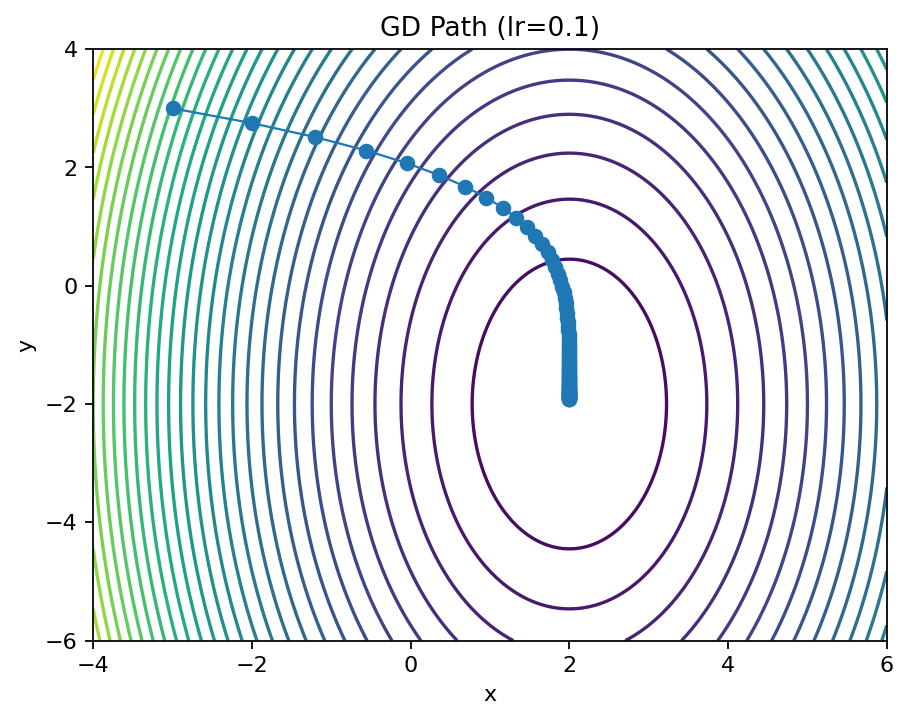
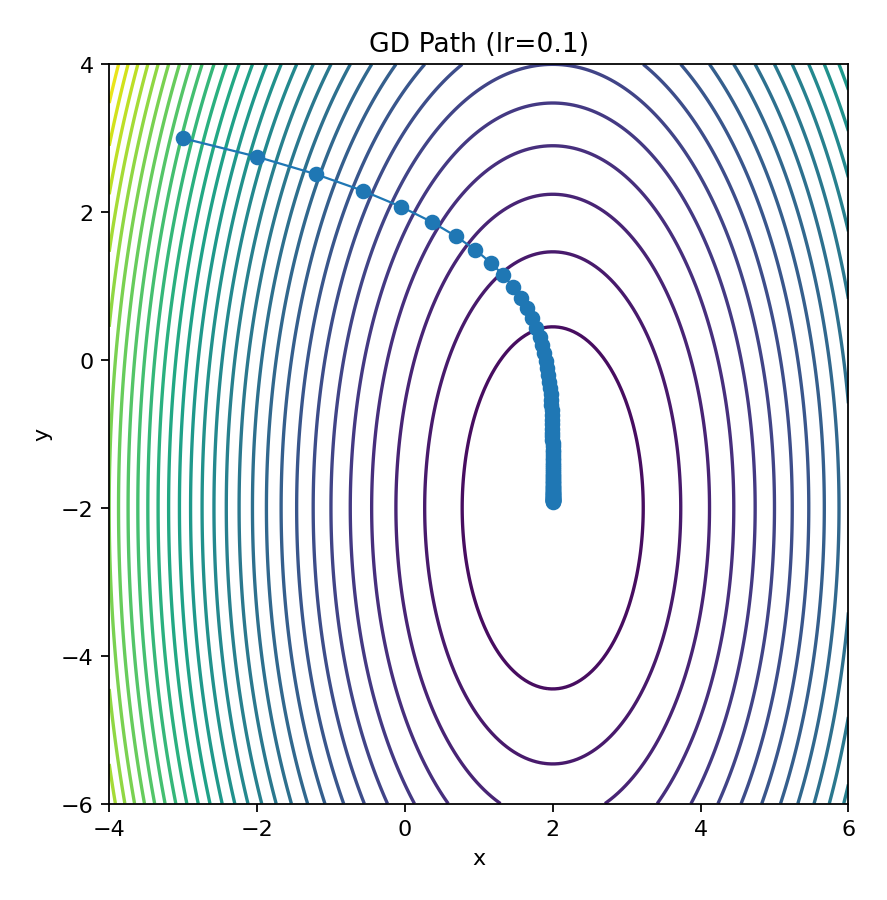
vis: square canvases + equal aspect + clearer logistic surface
Standardized 2D plots to equal aspect; improved logistic surface with percentile normalization + isolines; added padding to 3D surface. Regenerated figures.

diff --git a/examples/logreg_surface.py b/examples/logreg_surface.py
@@ -1,5 +1,6 @@
 import numpy as np
 import matplotlib.pyplot as plt
+from matplotlib import colors
 from mfd4.gradient_descent import logistic_loss, gd
 
 # Tiny 2D dataset
@@ -12,24 +13,18 @@ X = np.array([
 ])
 y = np.array([0, 0, 0, 1, 1])
 
-# Build loss/grad on (w1, w2, b)
 f, grad = logistic_loss(X, y, lam=0.0)
 
 def newton_opt_b(w1: float, w2: float, b0: float = 0.0, iters: int = 25):
-    """
-    Optimize scalar bias b for fixed w=(w1,w2) using 1-D Newton steps:
-      g(b)  = d/d b NLL = sum(sigmoid(Xw + b) - y)
-      g'(b) = sum(p*(1-p))
-    """
+    """Optimize scalar bias b for fixed w=(w1,w2) using 1-D Newton steps."""
     w = np.array([w1, w2], dtype=float)
     b = float(b0)
     for _ in range(iters):
         z = X @ w + b
         p = 1.0 / (1.0 + np.exp(-z))
-        g  = np.sum(p - y)                    # first derivative wrt b
-        g2 = np.sum(p * (1.0 - p)) + 1e-12    # second derivative wrt b (add epsilon)
+        g  = float(np.sum(p - y))                       # dNLL/db
+        g2 = float(np.sum(p * (1.0 - p)) + 1e-12)       # d^2NLL/db^2
         b -= g / g2
-        # keep b in a safe numeric range
         b = float(np.clip(b, -20.0, 20.0))
     return b
 
@@ -39,44 +34,49 @@ w2s = np.linspace(-6, 6, 160)
 W1, W2 = np.meshgrid(w1s, w2s)
 ZZ = np.empty_like(W1, dtype=float)
 
-# Compute loss surface with b optimized via Newton
+# Loss surface with b optimized via Newton
 for i in range(W1.shape[0]):
     for j in range(W1.shape[1]):
         w1 = float(W1[i, j]); w2 = float(W2[i, j])
         b_star = newton_opt_b(w1, w2, b0=0.0, iters=25)
         ZZ[i, j] = f(np.array([w1, w2, b_star], dtype=float))
 
-# Sanity: replace any NaNs/Infs; print range
+# Replace NaNs/Infs and compute contrast range
 ZZ = np.nan_to_num(ZZ, posinf=np.finfo(float).max/10, neginf=0.0)
 zmin, zmax = float(np.min(ZZ)), float(np.max(ZZ))
-print(f"logreg surface range: min={zmin:.4f}, max={zmax:.4f}")
+print(f"logreg surface raw range: min={zmin:.3f}, max={zmax:.3f}")
 
-plt.figure()
-drange = zmax - zmin
-try:
-    if drange <= 1e-8:
-        raise RuntimeError("range too small for contours")
-    cf = plt.contourf(W1, W2, ZZ, levels=30)
-    plt.colorbar(cf, shrink=0.85, label="loss")
-except Exception as _:
-    # Fallback: imshow if contouring is unhappy
-    im = plt.imshow(ZZ, origin="lower", extent=[w1s.min(), w1s.max(), w2s.min(), w2s.max()], aspect="auto")
-    plt.colorbar(im, shrink=0.85, label="loss")
+# Percentile-based contrast so mid-range structure is visible
+vmin = float(np.percentile(ZZ, 5))
+vmax = float(np.percentile(ZZ, 95))
+if vmax - vmin < 1e-6:
+    vmin, vmax = zmin, zmax  # fallback if too narrow
+levels = np.linspace(vmin, vmax, 30)
+norm = colors.Normalize(vmin=vmin, vmax=vmax)
 
+# Filled contours + isolines + colorbar (square + equal aspect)
+plt.figure(figsize=(7, 6))
+cf = plt.contourf(W1, W2, ZZ, levels=levels, norm=norm, cmap="viridis")
+cs = plt.contour(W1, W2, ZZ, levels=levels, colors="k", linewidths=0.4, alpha=0.6)
+plt.clabel(cs, inline=1, fontsize=7, fmt="%.1f")
+plt.colorbar(cf, shrink=0.85, label="loss")
+plt.xlim(w1s.min(), w1s.max()); plt.ylim(w2s.min(), w2s.max())
+plt.gca().set_aspect("equal", adjustable="box")
 plt.title("Logistic Regression Loss Surface (b optimized via Newton)")
 plt.xlabel("w1"); plt.ylabel("w2")
-plt.savefig("figures/logreg_surface.png", dpi=160, bbox_inches="tight")
+plt.savefig("figures/logreg_surface.png", dpi=160, bbox_inches="tight", pad_inches=0.2)
+plt.show()
 
-# Run full GD on (w1, w2, b) and overlay path projected onto (w1, w2)
+# Projected GD path on the same surface
 x0 = np.array([0.0, 0.0, 0.0])
 _, path, _ = gd(f, grad, x0=x0, lr=0.5, steps=200)
-plt.figure()
-# Reuse the computed surface but show as contours for context
-try:
-    cs = plt.contour(W1, W2, ZZ, levels=30)
-except Exception:
-    cs = plt.contour(W1, W2, ZZ, levels=5)
+
+plt.figure(figsize=(7, 6))
+plt.contour(W1, W2, ZZ, levels=levels, norm=norm, colors="k", linewidths=0.6, alpha=0.7)
 plt.plot(path[:,0], path[:,1], marker='o', linewidth=1)
+plt.xlim(w1s.min(), w1s.max()); plt.ylim(w2s.min(), w2s.max())
+plt.gca().set_aspect("equal", adjustable="box")
 plt.title("GD Path on Logistic Loss (projected onto w1-w2)")
 plt.xlabel("w1"); plt.ylabel("w2")
-plt.savefig("figures/logreg_gd_path.png", dpi=160, bbox_inches="tight")
+plt.savefig("figures/logreg_gd_path.png", dpi=160, bbox_inches="tight", pad_inches=0.2)
+plt.show()

diff --git a/examples/rosenbrock_path.py b/examples/rosenbrock_path.py
@@ -2,7 +2,6 @@ import numpy as np
 import matplotlib.pyplot as plt
 from mfd4.gradient_descent import gd, gd_momentum, rosenbrock
 
-# Rosenbrock function (classic narrow valley)
 f, grad = rosenbrock(a=1.0, b=100.0)
 
 # Contour grid (precomputed formula for speed)
@@ -11,23 +10,29 @@ ys = np.linspace(-1, 3, 400)
 XX, YY = np.meshgrid(xs, ys)
 ZZ = (1 - XX)**2 + 100.0*(YY - XX**2)**2
 
-# Vanilla GD (may zig-zag)
+# Vanilla GD (zig-zaggy)
 _, path_gd, _ = gd(f, grad, x0=[-1.2, 1.0], lr=1e-3, steps=3500)
 
 # Momentum GD (faster valley following)
 _, path_mo, _ = gd_momentum(f, grad, x0=[-1.2, 1.0], lr=2e-3, beta=0.9, steps=2500)
 
-# Save figures headlessly
-plt.figure()
+# Save figures (square + equal aspect)
+plt.figure(figsize=(6, 6))
 plt.contour(XX, YY, ZZ, levels=40)
 plt.plot(path_gd[:,0], path_gd[:,1], marker='o', linewidth=1)
+plt.xlim(xs.min(), xs.max()); plt.ylim(ys.min(), ys.max())
+plt.gca().set_aspect("equal", adjustable="box")
 plt.title("Rosenbrock Path — GD lr=0.001")
 plt.xlabel("x"); plt.ylabel("y")
-plt.savefig("figures/rosenbrock_gd_lr0.001.png", dpi=160, bbox_inches="tight")
+plt.savefig("figures/rosenbrock_gd_lr0.001.png", dpi=160, bbox_inches="tight", pad_inches=0.2)
+plt.show()
 
-plt.figure()
+plt.figure(figsize=(6, 6))
 plt.contour(XX, YY, ZZ, levels=40)
 plt.plot(path_mo[:,0], path_mo[:,1], marker='o', linewidth=1)
+plt.xlim(xs.min(), xs.max()); plt.ylim(ys.min(), ys.max())
+plt.gca().set_aspect("equal", adjustable="box")
 plt.title("Rosenbrock Path — Momentum lr=0.002, beta=0.9")
 plt.xlabel("x"); plt.ylabel("y")
-plt.savefig("figures/rosenbrock_momentum_lr0.002beta0.9.png", dpi=160, bbox_inches="tight")
+plt.savefig("figures/rosenbrock_momentum_lr0.002beta0.9.png", dpi=160, bbox_inches="tight", pad_inches=0.2)
+plt.show()

diff --git a/examples/momentum_vs_vanilla.py b/examples/momentum_vs_vanilla.py
@@ -12,15 +12,18 @@ XX, YY = np.meshgrid(xs, ys)
 ZZ = (XX - 2.0)**2 + (0.5*YY + 1.0)**2
 
 # Paths
-_, path_gd, _  = gd(f, grad, x0=[-3, 3], lr=0.25, steps=120)
-_, path_mo, _  = gd_momentum(f, grad, x0=[-3, 3], lr=0.25, beta=0.9, steps=120)
+_, path_gd, _ = gd(f, grad, x0=[-3, 3], lr=0.25, steps=120)
+_, path_mo, _ = gd_momentum(f, grad, x0=[-3, 3], lr=0.25, beta=0.9, steps=120)
 
-# Plot + save (headless-friendly)
-plt.figure()
+# Plot + save (square + equal aspect)
+plt.figure(figsize=(6, 6))
 plt.contour(XX, YY, ZZ, levels=30)
 plt.plot(path_gd[:,0], path_gd[:,1], marker='o', linewidth=1, label="GD")
 plt.plot(path_mo[:,0], path_mo[:,1], marker='o', linewidth=1, label="Momentum")
+plt.xlim(xs.min(), xs.max()); plt.ylim(ys.min(), ys.max())
+plt.gca().set_aspect("equal", adjustable="box")
 plt.legend()
 plt.title("Vanilla GD vs Momentum on Quadratic")
 plt.xlabel("x"); plt.ylabel("y")
-plt.savefig("figures/momentum_vs_gd.png", dpi=160, bbox_inches="tight")
+plt.savefig("figures/momentum_vs_gd.png", dpi=160, bbox_inches="tight", pad_inches=0.2)
+plt.show()

diff --git a/examples/surface3d.py b/examples/surface3d.py
@@ -1,5 +1,19 @@
-import sys, pathlib
-# Add the repo root so "from mfd4.gradient_descent ..." works regardless of CWD
-sys.path.append(str(pathlib.Path(__file__).resolve().parents[1]))
-import sys, pathlib
-sys.path.append(str(pathlib.Path(__file__).resolve().parents[1]))
+import numpy as np
+import matplotlib.pyplot as plt
+from mpl_toolkits.mplot3d import Axes3D  # noqa: F401
+from mfd4.gradient_descent import quadratic
+
+f, grad = quadratic(a=1.0, b=2.0, c=0.5, d=-1.0)
+
+xs = np.linspace(-4, 6, 120)
+ys = np.linspace(-6, 4, 120)
+XX, YY = np.meshgrid(xs, ys)
+ZZ = (XX - 2.0)**2 + (0.5*YY + 1.0)**2
+
+fig = plt.figure(figsize=(8.5, 6.0))
+ax = fig.add_subplot(111, projection='3d')
+ax.plot_surface(XX, YY, ZZ, linewidth=0, antialiased=True, alpha=0.85)
+ax.set_title("Quadratic Loss Surface (3D)")
+ax.set_xlabel("x"); ax.set_ylabel("y"); ax.set_zlabel("loss")
+fig.savefig("figures/quadratic_surface3d.png", dpi=160, bbox_inches="tight", pad_inches=0.3)
+plt.show()

diff --git a/examples/lr_sweep.py b/examples/lr_sweep.py
@@ -11,10 +11,18 @@ ZZ = (XX - 2.0)**2 + (0.5*YY + 1.0)**2
 
 for lr in [0.05, 0.1, 0.3, 0.9, 1.5]:
     _, path, _ = gd(f, grad, x0=[-3, 3], lr=lr, steps=80)
-    plt.figure()
+
+    plt.figure(figsize=(6, 6))
     plt.contour(XX, YY, ZZ, levels=30)
     plt.plot(path[:, 0], path[:, 1], marker='o', linewidth=1)
+
+    # prevent stretching
+    plt.xlim(xs.min(), xs.max())
+    plt.ylim(ys.min(), ys.max())
+    plt.gca().set_aspect("equal", adjustable="box")
+
     plt.title(f"GD Path (lr={lr})")
     plt.xlabel("x"); plt.ylabel("y")
-    plt.savefig(f"figures/quadratic_lr_{str(lr).replace('.','p')}.png", dpi=160, bbox_inches="tight")
+    plt.savefig(f"figures/quadratic_lr_{str(lr).replace('.','p')}.png",
+                dpi=160, bbox_inches="tight", pad_inches=0.2)
     plt.show()

diff --git a/examples/quadratic_contours.py b/examples/quadratic_contours.py
@@ -14,13 +14,15 @@ ZZ = (XX - 2.0)**2 + (0.5*YY + 1.0)**2
 # Run GD
 _, path, losses = gd(f, grad, x0=[-3, 3], lr=0.3, steps=200)
 
-# Plot contour + path
-plt.figure()
+# Contour + path (square canvas, equal aspect)
+plt.figure(figsize=(6, 6))
 plt.contour(XX, YY, ZZ, levels=30)
 plt.plot(path[:, 0], path[:, 1], marker='o', linewidth=1)
+plt.xlim(xs.min(), xs.max()); plt.ylim(ys.min(), ys.max())
+plt.gca().set_aspect("equal", adjustable="box")
 plt.title("Gradient Descent Path on Quadratic Loss")
 plt.xlabel("x"); plt.ylabel("y")
-plt.savefig("figures/quadratic_gd_path.png", dpi=160, bbox_inches="tight")
+plt.savefig("figures/quadratic_gd_path.png", dpi=160, bbox_inches="tight", pad_inches=0.2)
 plt.show()
 
 # Loss vs iteration
